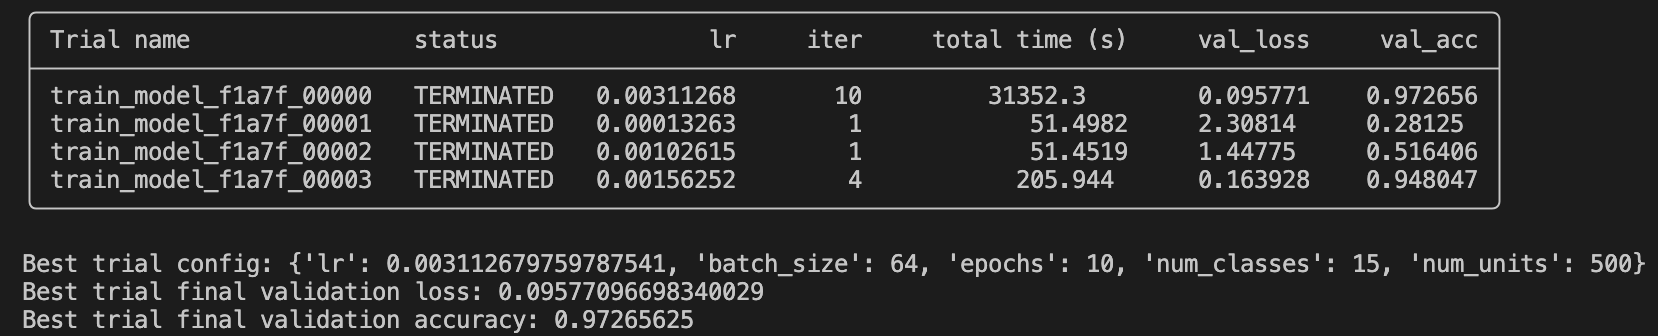
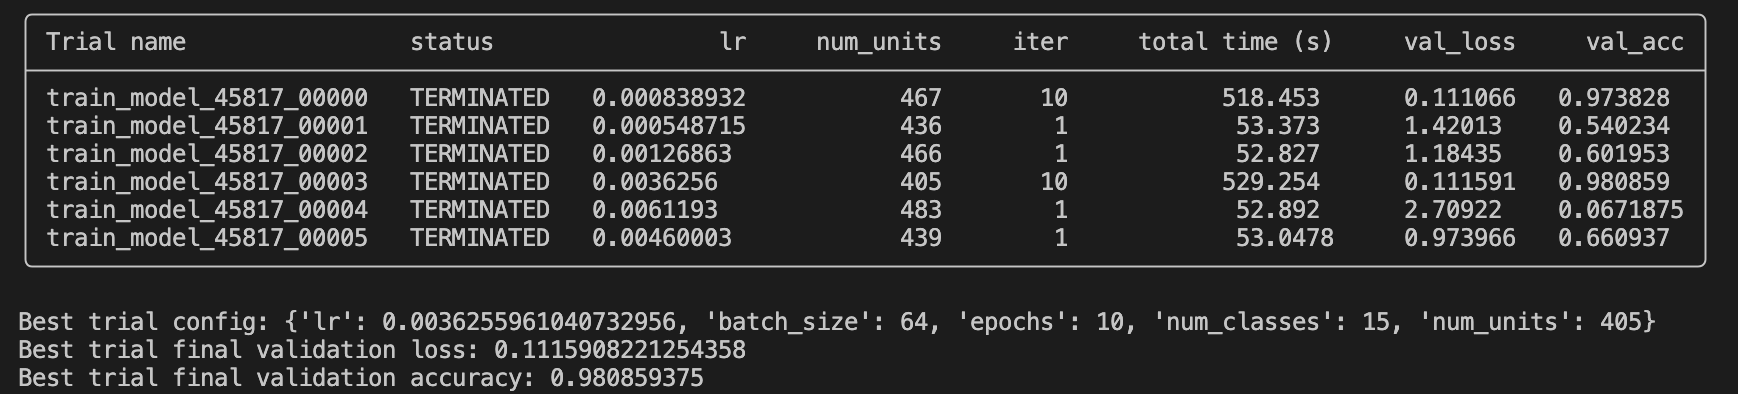
update

diff --git a/session-2-sol/main_hyperparam_optimize.py b/session-2-sol/main_hyperparam_optimize.py
@@ -96,7 +96,7 @@ def eval_single_epoch(model, val_loader):
 
 def train_model(config):
 
-    train_dataset, val_dataset, test_dataset = load_data()
+#    train_dataset, val_dataset, test_dataset = load_data()
 
     train_loader, val_loader, test_loader = get_data_loaders(train_dataset, val_dataset, test_dataset, batch_size = config["batch_size"], num_workers=4)
 
@@ -137,7 +137,7 @@ def train_model(config):
 
 def test_best_model(best_result):
 
-    train_dataset, val_dataset, test_dataset = load_data()
+    # train_dataset, val_dataset, test_dataset = load_data()
 
     _, _, test_loader = get_data_loaders(train_dataset, val_dataset, test_dataset, batch_size = config["batch_size"], num_workers=4)
 
@@ -160,13 +160,15 @@ def test_best_model(best_result):
 
 if __name__ == "__main__":
 
+    train_dataset, val_dataset, test_dataset = load_data()
+
     config = {
         "lr": tune.loguniform(1e-4, 1e-2),
         "batch_size": 64,
         "epochs": 10,
         "num_classes": 15,
-        "num_units": 500,
-        # "num_units": tune.randint(400, 500),
+        # "num_units": 500,
+        "num_units": tune.randint(400, 500),
     }
     scheduler = ASHAScheduler(metric="val_acc", mode="max")
     
@@ -179,7 +181,7 @@ if __name__ == "__main__":
             # metric="val_acc",
             # mode="max",
             scheduler=scheduler,
-            num_samples=4,
+            num_samples=6,
         ),
         param_space=config,
     )

diff --git a/session-2-sol/README.md b/session-2-sol/README.md
@@ -14,14 +14,15 @@ To run the project with hyperparameter tuning, run
 python session-2-sol/main_hyperparam_optimize.py
 ```
 
-The performance achieved on the validation dataset was 0.97 and in the test dataset was 0.99 with this config: `{'lr': 0.003112679759787541, 'batch_size': 64, 'epochs': 10, 'num_classes': 15, 'num_units': 500}`
+The performance achieved on the validation dataset was 0.980859375 and in the test dataset was 0.97 with this config: `{'lr': 0.0036255961040732956, 'batch_size': 64, 'epochs': 10, 'num_classes': 15, 'num_units': 405}`
 
 ```
-Best trial test set: loss=0.04 acc=0.99
+Best trial test set: loss=0.14 acc=0.97
 ```
 
 ![Tune results](tune_results.png "Tune results")
 
 By using the `ASHAScheduler` scheduler, three of the trials were stoped in a few iterations after no improving the first one.
 
-
+Validation accuracy and loss from Tensor Board:
+![Acc and loss](tensor_board_metrics.png "Acc and loss")
